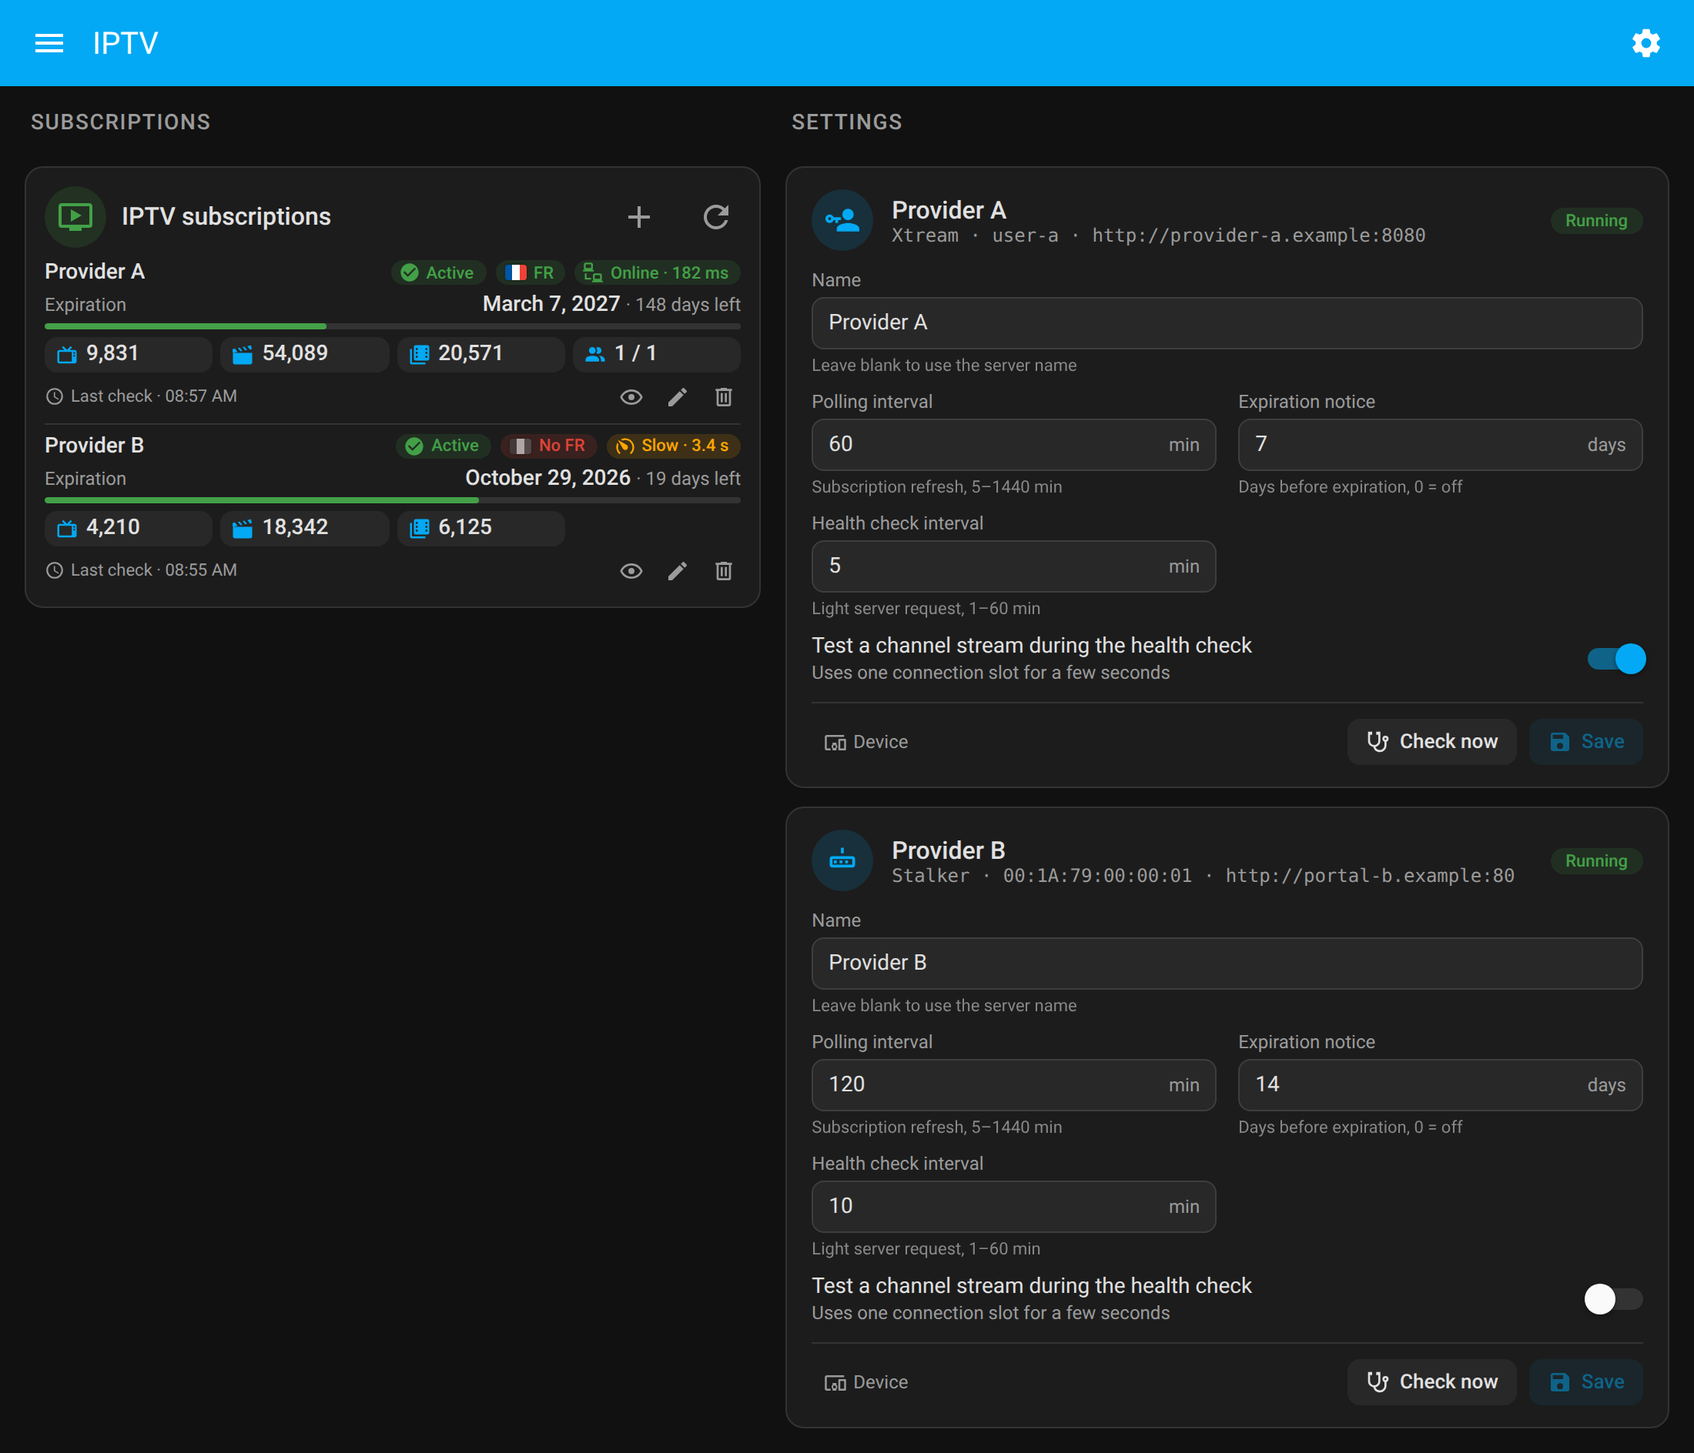
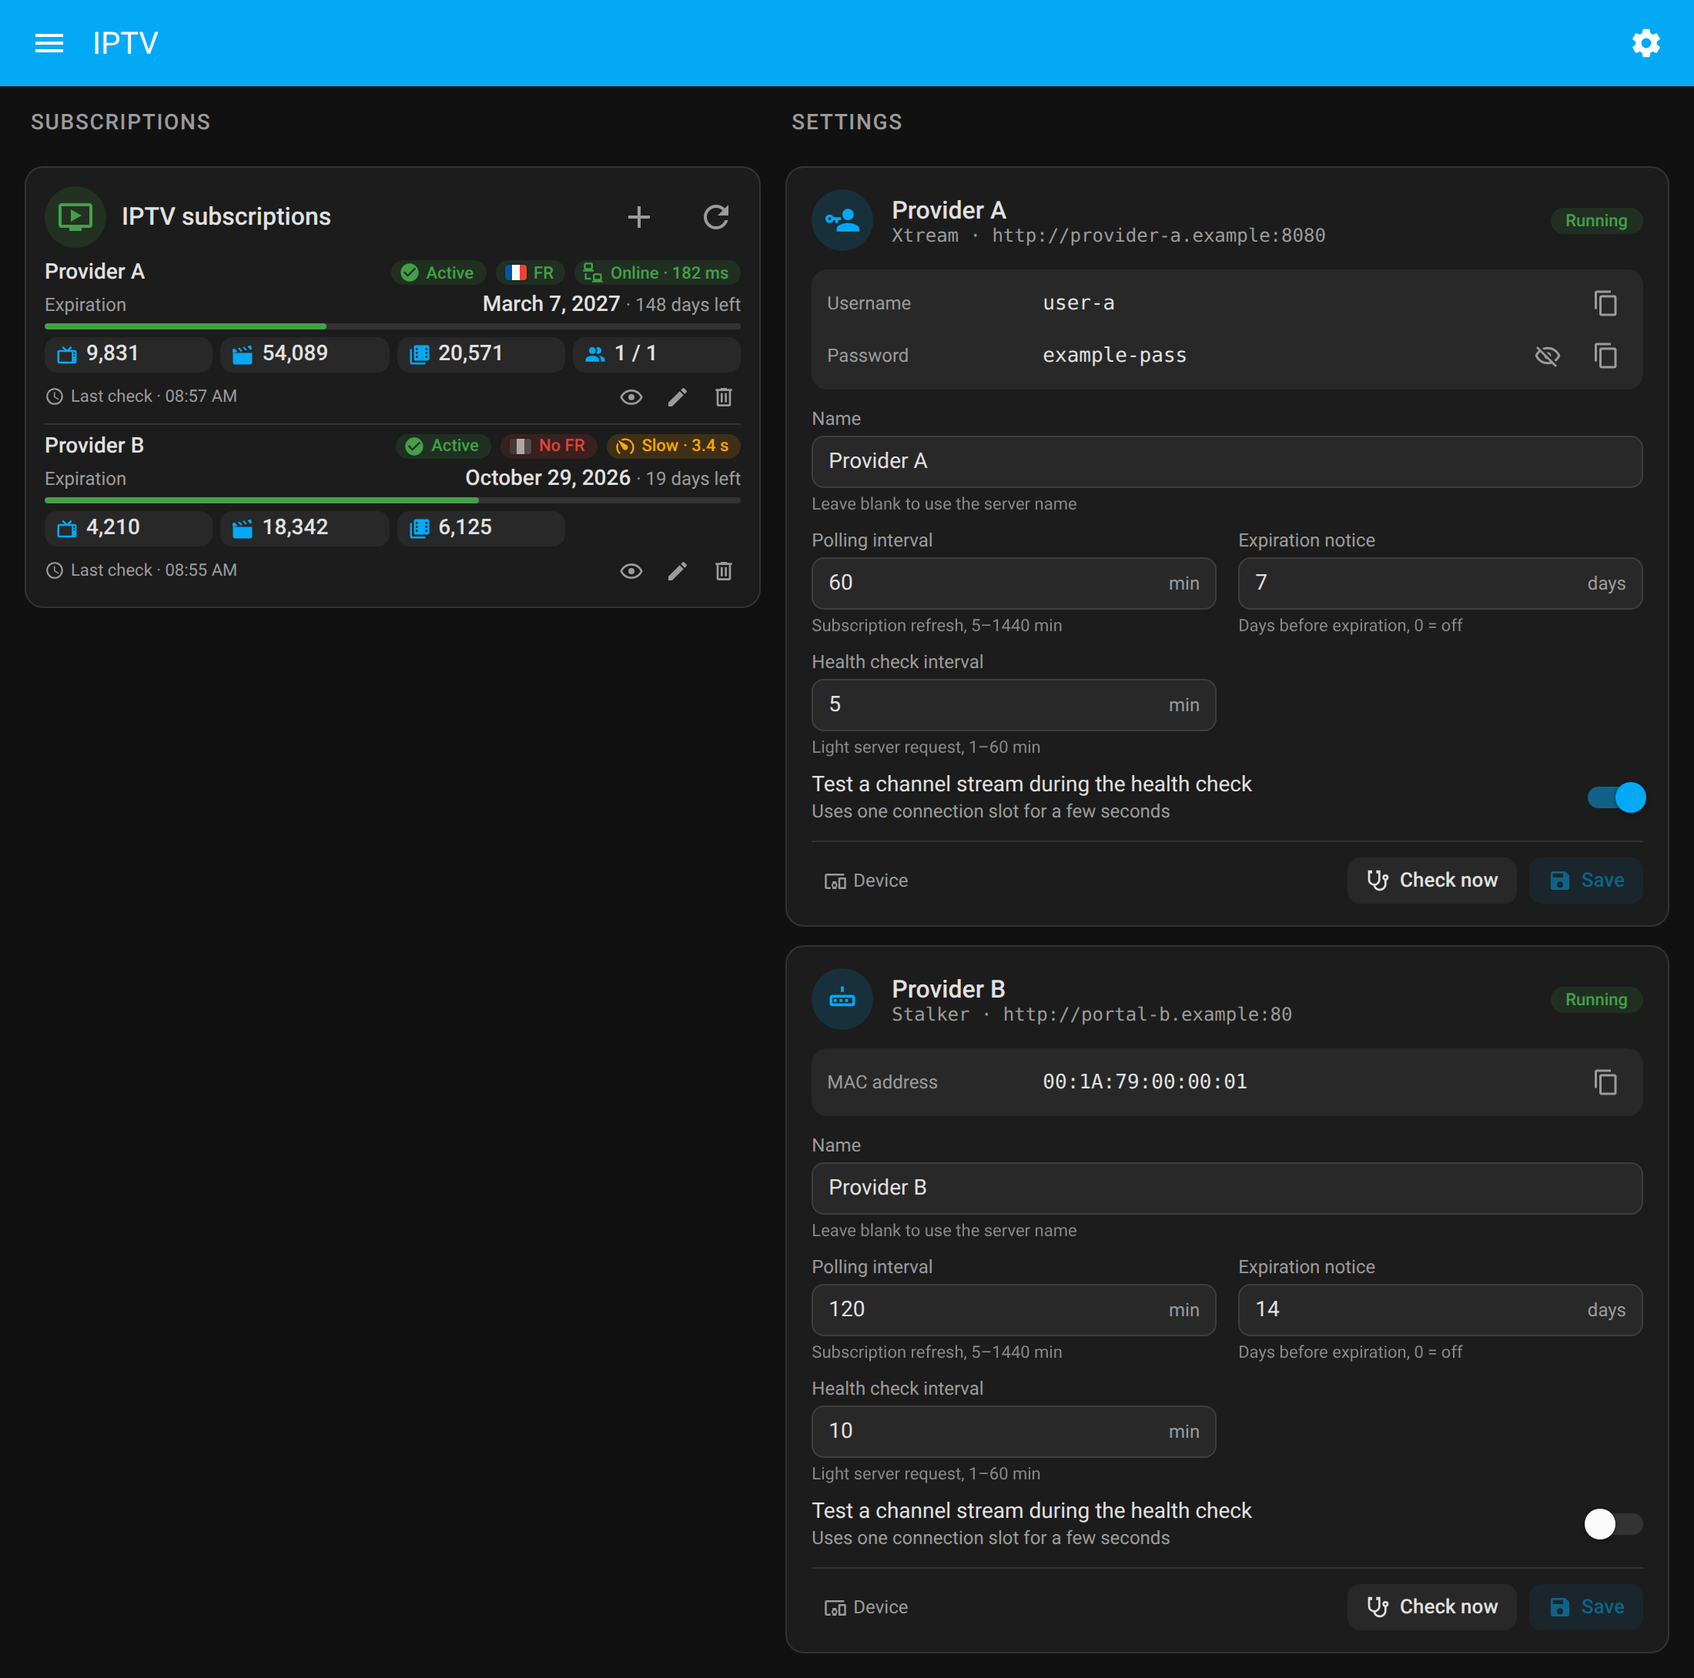
Panel: show and copy account credentials + release 3.22.0 (#52)
## Summary
- Sidebar panel: credentials block per account — username (or MAC
address) and, for Xtream accounts, the password masked (`••••••••`)
until the eye button is clicked; copy buttons for both.
- The password is fetched on demand through the existing admin-only
`iptv/get_credentials` command (never in `iptv/accounts`), kept in
memory only while shown, dropped when hidden, when the account
disappears and when the panel is closed.
- en/fr/de/es; README, CHANGELOG, AGENT.md and panel screenshots
updated. Release 3.22.0.

## Tests
- 113 Python tests, card + panel JS tests (i18n parity) pass; ruff,
Biome, jscpd (0 clones) clean.

---
_Generated by [Claude
Code](https://claude.ai/code/session_01F4sAmySzCCvUFrwNuGJ9Hn)_

---------

diff --git a/custom_components/iptv/frontend/iptv-panel.js b/custom_components/iptv/frontend/iptv-panel.js
@@ -9,7 +9,7 @@
  *
  * https://github.com/juju35/ha-iptv
  */
-var IPTV_PANEL_VERSION = '3.21.0';
+var IPTV_PANEL_VERSION = '3.22.0';
 
 var IptvPanelI18n = {
   en: {
@@ -37,6 +37,13 @@ var IptvPanelI18n = {
     checking: 'Checking…',
     checked_ok: 'Server answered',
     checked_ko: 'Server not reachable',
+    cred_username: 'Username',
+    cred_mac: 'MAC address',
+    cred_password: 'Password',
+    cred_show: 'Show the password',
+    cred_hide: 'Hide the password',
+    cred_copy: 'Copy',
+    cred_copied: 'Copied',
     open_device: 'Device',
     open_integration: 'Devices & services',
     err_range: 'Value out of range',
@@ -73,6 +80,13 @@ var IptvPanelI18n = {
     checking: 'Vérification…',
     checked_ok: 'Le serveur répond',
     checked_ko: 'Serveur injoignable',
+    cred_username: 'Nom d’utilisateur',
+    cred_mac: 'Adresse MAC',
+    cred_password: 'Mot de passe',
+    cred_show: 'Afficher le mot de passe',
+    cred_hide: 'Masquer le mot de passe',
+    cred_copy: 'Copier',
+    cred_copied: 'Copié',
     open_device: 'Appareil',
     open_integration: 'Appareils et services',
     err_range: 'Valeur hors limites',
@@ -109,6 +123,13 @@ var IptvPanelI18n = {
     checking: 'Wird geprüft…',
     checked_ok: 'Server antwortet',
     checked_ko: 'Server nicht erreichbar',
+    cred_username: 'Benutzername',
+    cred_mac: 'MAC-Adresse',
+    cred_password: 'Passwort',
+    cred_show: 'Passwort anzeigen',
+    cred_hide: 'Passwort ausblenden',
+    cred_copy: 'Kopieren',
+    cred_copied: 'Kopiert',
     open_device: 'Gerät',
     open_integration: 'Geräte & Dienste',
     err_range: 'Wert außerhalb des Bereichs',
@@ -145,6 +166,13 @@ var IptvPanelI18n = {
     checking: 'Comprobando…',
     checked_ok: 'El servidor responde',
     checked_ko: 'Servidor inaccesible',
+    cred_username: 'Usuario',
+    cred_mac: 'Dirección MAC',
+    cred_password: 'Contraseña',
+    cred_show: 'Mostrar la contraseña',
+    cred_hide: 'Ocultar la contraseña',
+    cred_copy: 'Copiar',
+    cred_copied: 'Copiado',
     open_device: 'Dispositivo',
     open_integration: 'Dispositivos y servicios',
     err_range: 'Valor fuera de rango',
@@ -236,6 +264,16 @@ class IptvPanel extends HTMLElement {
     .act:hover:not([disabled]) { background:color-mix(in srgb, var(--primary-color) 22%, transparent); }
     .act.quiet { color:var(--primary-text-color); background:var(--secondary-background-color, rgba(127,127,127,.12)); }
     .act[disabled] { opacity:.5; cursor:default; }
+    .creds { display:flex; flex-direction:column; gap:2px; padding:6px 10px; border-radius:10px;
+             background:var(--secondary-background-color, rgba(127,127,127,.08)); }
+    .cred { display:flex; align-items:center; gap:10px; min-height:32px; }
+    .cred > span { width:130px; flex:none; font-size:12px; color:var(--secondary-text-color); }
+    .cred code { flex:1; min-width:0; font-size:13px; overflow:hidden; text-overflow:ellipsis; white-space:nowrap; user-select:all; }
+    .cred code.masked { letter-spacing:.15em; color:var(--secondary-text-color); user-select:none; }
+    .ico { border:0; background:none; cursor:pointer; color:var(--secondary-text-color); padding:5px; border-radius:50%; display:flex; --mdc-icon-size:18px; }
+    .ico:hover:not([disabled]) { background:color-mix(in srgb, var(--primary-color) 12%, transparent); color:var(--primary-color); }
+    .ico.done { color:var(--tone-good); }
+    .ico[disabled] { opacity:.4; cursor:default; }
   `;
 
   constructor() {
@@ -245,6 +283,8 @@ class IptvPanel extends HTMLElement {
     this._drafts = {};
     this._status = {};
     this._busy = {};
+    // Passwords revealed on request, kept in memory only while shown
+    this._secrets = {};
   }
 
   set hass(hass) {
@@ -271,6 +311,7 @@ class IptvPanel extends HTMLElement {
   }
 
   disconnectedCallback() {
+    this._secrets = {};
     if (this._unsub) {
       this._unsub.then((off) => off()).catch(() => {});
       this._unsub = null;
@@ -320,8 +361,10 @@ class IptvPanel extends HTMLElement {
       this._accounts = this._accounts || [];
     }
     var ids = new Set(this._accounts.map((a) => a.entry_id));
-    Object.keys(this._drafts).forEach((id) => {
-      if (!ids.has(id)) delete this._drafts[id];
+    [this._drafts, this._secrets].forEach((store) => {
+      Object.keys(store).forEach((id) => {
+        if (!ids.has(id)) delete store[id];
+      });
     });
     this._renderAccounts();
   }
@@ -395,6 +438,68 @@ class IptvPanel extends HTMLElement {
       </label>`;
   }
 
+  // Login and password of an account; the password is only fetched (iptv/get_credentials) when shown or copied
+  _credsHtml(acc) {
+    var esc = iptvPanelEsc;
+    var stalker = acc.provider === 'stalker';
+    var copy = (field) =>
+      `<button class="ico" data-copy="${field}" title="${esc(this._t('cred_copy'))}"${field === 'password' && !acc.device_id ? ' disabled' : ''}><ha-icon icon="mdi:content-copy"></ha-icon></button>`;
+    var login = `
+      <div class="cred">
+        <span>${esc(this._t(stalker ? 'cred_mac' : 'cred_username'))}</span>
+        <code>${esc(acc.login)}</code>
+        ${copy('login')}
+      </div>`;
+    if (stalker) return `<div class="creds">${login}</div>`;
+    var secret = this._secrets[acc.entry_id];
+    var shown = secret != null;
+    return `
+      <div class="creds">
+        ${login}
+        <div class="cred">
+          <span>${esc(this._t('cred_password'))}</span>
+          <code class="${shown ? '' : 'masked'}">${shown ? esc(secret) : '••••••••'}</code>
+          <button class="ico" data-reveal title="${esc(this._t(shown ? 'cred_hide' : 'cred_show'))}"${acc.device_id ? '' : ' disabled'}><ha-icon icon="${shown ? 'mdi:eye-off-outline' : 'mdi:eye-outline'}"></ha-icon></button>
+          ${copy('password')}
+        </div>
+      </div>`;
+  }
+
+  async _password(acc) {
+    var res = await this._hass.callWS({ type: 'iptv/get_credentials', device_id: acc.device_id });
+    if (!res?.ok) throw new Error(this._t(`err_${res?.error || 'generic'}`));
+    return res.password || '';
+  }
+
+  async _toggleSecret(acc) {
+    if (this._secrets[acc.entry_id] != null) {
+      delete this._secrets[acc.entry_id];
+    } else {
+      try {
+        this._secrets[acc.entry_id] = await this._password(acc);
+      } catch (err) {
+        this._status[acc.entry_id] = { tone: 'bad', text: err.message };
+      }
+    }
+    this._renderAccounts();
+  }
+
+  async _copy(acc, field, button) {
+    try {
+      var text = field === 'login' ? acc.login : (this._secrets[acc.entry_id] ?? (await this._password(acc)));
+      await navigator.clipboard.writeText(text);
+      button.classList.add('done');
+      button.title = this._t('cred_copied');
+      setTimeout(() => {
+        button.classList.remove('done');
+        button.title = this._t('cred_copy');
+      }, 1500);
+    } catch (err) {
+      this._status[acc.entry_id] = { tone: 'bad', text: err?.message || this._t('err_generic') };
+      this._renderAccounts();
+    }
+  }
+
   _accountHtml(acc) {
     var d = this._draft(acc);
     var esc = iptvPanelEsc;
@@ -409,10 +514,11 @@ class IptvPanel extends HTMLElement {
           <div class="avatar"><ha-icon icon="${icon}"></ha-icon></div>
           <div class="who">
             <div class="n">${esc(acc.title)}</div>
-            <div class="s">${esc(acc.provider === 'stalker' ? 'Stalker' : 'Xtream')} · ${esc(acc.login)} · ${esc(acc.url)}</div>
+            <div class="s">${esc(acc.provider === 'stalker' ? 'Stalker' : 'Xtream')} · ${esc(acc.url)}</div>
           </div>
           <span class="pill ${iptvPanelTone(acc.state)}">${esc(state)}</span>
         </div>
+        ${this._credsHtml(acc)}
         <div class="grid">
           <label class="ctl wide">
             <span>${esc(this._t('f_name'))}</span>
@@ -482,6 +588,10 @@ class IptvPanel extends HTMLElement {
     el.querySelector('ha-switch').addEventListener('change', (ev) => {
       draft.stream_check = !!ev.target.checked;
       this._refreshBar(acc, el);
+    });
+    el.querySelector('[data-reveal]')?.addEventListener('click', () => this._toggleSecret(acc));
+    el.querySelectorAll('[data-copy]').forEach((button) => {
+      button.addEventListener('click', () => this._copy(acc, button.dataset.copy, button));
     });
     el.querySelector('[data-do="save"]').addEventListener('click', () => this._save(acc));
     el.querySelector('[data-do="check"]').addEventListener('click', () => this._check(acc));

diff --git a/custom_components/iptv/frontend/iptv-card.js b/custom_components/iptv/frontend/iptv-card.js
@@ -8,7 +8,7 @@
  *
  * https://github.com/juju35/ha-iptv
  */
-var IPTV_CARD_VERSION = '3.21.0';
+var IPTV_CARD_VERSION = '3.22.0';
 var IPTV_DOMAIN = 'iptv';
 
 // ── i18n ──────────────────────────────────────────────────────────────────────

diff --git a/scripts/screenshots.py b/scripts/screenshots.py
@@ -71,6 +71,8 @@ ICONS = {
     "content-save": "M15,9H5V5H15M12,19A3,3 0 0,1 9,16A3,3 0 0,1 12,13A3,3 0 0,1 15,16A3,3 0 0,1 12,19M17,3H5C3.89,3 3,3.9 3,5V19A2,2 0 0,0 5,21H19A2,2 0 0,0 21,19V7L17,3Z",
     "devices": "M3,6H21V4H3C1.9,4 1,4.9 1,6V18A2,2 0 0,0 3,20H7V18H3V6M13,12H9V13.78C8.39,14.33 8,15.11 8,16C8,16.89 8.39,17.67 9,18.22V20H13V18.22C13.61,17.67 14,16.88 14,16C14,15.12 13.61,14.33 13,13.78V12M11,17.5A1.5,1.5 0 0,1 9.5,16A1.5,1.5 0 0,1 11,14.5A1.5,1.5 0 0,1 12.5,16A1.5,1.5 0 0,1 11,17.5M22,8H16A1,1 0 0,0 15,9V19A1,1 0 0,0 16,20H22A1,1 0 0,0 23,19V9A1,1 0 0,0 22,8M21,18H17V10H21V18Z",
     "cog": "M12,15.5A3.5,3.5 0 0,1 8.5,12A3.5,3.5 0 0,1 12,8.5A3.5,3.5 0 0,1 15.5,12A3.5,3.5 0 0,1 12,15.5M19.43,12.97C19.47,12.65 19.5,12.33 19.5,12C19.5,11.67 19.47,11.34 19.43,11L21.54,9.37C21.73,9.22 21.78,8.95 21.66,8.73L19.66,5.27C19.54,5.05 19.27,4.96 19.05,5.05L16.56,6.05C16.04,5.66 15.5,5.32 14.87,5.07L14.5,2.42C14.46,2.18 14.25,2 14,2H10C9.75,2 9.54,2.18 9.5,2.42L9.13,5.07C8.5,5.32 7.96,5.66 7.44,6.05L4.95,5.05C4.73,4.96 4.46,5.05 4.34,5.27L2.34,8.73C2.21,8.95 2.27,9.22 2.46,9.37L4.57,11C4.53,11.34 4.5,11.67 4.5,12C4.5,12.33 4.53,12.65 4.57,12.97L2.46,14.63C2.27,14.78 2.21,15.05 2.34,15.27L4.34,18.73C4.46,18.95 4.73,19.03 4.95,18.95L7.44,17.94C7.96,18.34 8.5,18.68 9.13,18.93L9.5,21.58C9.54,21.82 9.75,22 10,22H14C14.25,22 14.46,21.82 14.5,21.58L14.87,18.93C15.5,18.67 16.04,18.34 16.56,17.94L19.05,18.95C19.27,19.03 19.54,18.95 19.66,18.73L21.66,15.27C21.78,15.05 21.73,14.78 21.54,14.63L19.43,12.97Z",
+    "content-copy": "M19,21H8V7H19M19,5H8A2,2 0 0,0 6,7V21A2,2 0 0,0 8,23H19A2,2 0 0,0 21,21V7A2,2 0 0,0 19,5M16,1H4A2,2 0 0,0 2,3V17H4V3H16V1Z",
+    "eye-off-outline": "M2,5.27L3.28,4L20,20.72L18.73,22L15.65,18.92C14.5,19.3 13.28,19.5 12,19.5C7,19.5 2.73,16.39 1,12C1.69,10.24 2.79,8.69 4.19,7.46L2,5.27M12,9A3,3 0 0,1 15,12C15,12.35 14.94,12.69 14.83,13L11,9.17C11.31,9.06 11.65,9 12,9M12,4.5C17,4.5 21.27,7.61 23,12C22.18,14.08 20.79,15.88 19,17.19L17.58,15.76C18.94,14.82 20.06,13.54 20.82,12C19.17,8.64 15.76,6.5 12,6.5C10.91,6.5 9.84,6.68 8.84,7L7.3,5.47C8.74,4.85 10.33,4.5 12,4.5M3.18,12C4.83,15.36 8.24,17.5 12,17.5C12.69,17.5 13.37,17.43 14,17.29L11.72,15C10.29,14.85 9.15,13.71 9,12.28L5.6,8.87C4.61,9.72 3.78,10.78 3.18,12Z",
     "menu": "M3,6H21V8H3V6M3,11H21V13H3V11M3,16H21V18H3V16Z",
     "account-multiple": "M16 17V19H2V17S2 13 9 13 16 17 16 17M12.5 7.5A3.5 3.5 0 1 0 9 11A3.5 3.5 0 0 0 12.5 7.5M15.94 13A5.32 5.32 0 0 1 18 17V19H22V17S22 13.37 15.94 13M15 4A3.39 3.39 0 0 0 13.07 4.59A5 5 0 0 1 13.07 10.41A3.39 3.39 0 0 0 15 11A3.5 3.5 0 0 0 15 4Z",
 }
@@ -314,9 +316,12 @@ def mount_panel(context, shot):
           el.narrow = false;
           el.hass = {states, entities, devices, user: {is_admin: true}, language: "en", locale: {language: "en"},
             themes: {darkMode: dark}, callService: () => Promise.resolve(),
-            callWS: (msg) => Promise.resolve(msg.type === "iptv/accounts" ? {accounts} : {ok: true}),
+            callWS: (msg) => Promise.resolve(msg.type === "iptv/accounts" ? {accounts}
+              : msg.type === "iptv/get_credentials" ? {ok: true, password: "example-pass"} : {ok: true}),
             connection: {subscribeMessage: () => Promise.resolve(() => {})}};
           document.getElementById("root").appendChild(el);
+          // Show the first account's password, as after a click on the eye
+          setTimeout(() => el.shadowRoot.querySelector("[data-reveal]")?.click(), 100);
         }""",
         {
             "states": STATES,

diff --git a/custom_components/iptv/const.py b/custom_components/iptv/const.py
@@ -1,7 +1,7 @@
 """Constants for the IPTV integration."""
 
 DOMAIN = "iptv"
-VERSION = "3.21.0"
+VERSION = "3.22.0"
 
 CONF_SCAN_INTERVAL = "scan_interval"
 DEFAULT_SCAN_INTERVAL = 60  # minutes

diff --git a/custom_components/iptv/AGENT.md b/custom_components/iptv/AGENT.md
@@ -42,7 +42,7 @@ custom_components/iptv/
 
 ## Sidebar panel
 - Registered in `async_setup` (`panel_custom`, `require_admin`) at `/iptv-config` — its own path, not `/iptv`, so the frontend's panel route never shadows the files served under `/iptv/`. Module served from `/iptv/iptv-panel.js?v=VERSION`; `IPTV_PANEL_VERSION` is bumped with the others.
-- The panel imports the card and embeds `iptv-card` for the account list and add / view / edit / remove (no duplicated code: jscpd is blocking), and adds a settings form per account through `iptv/accounts` (no password), `iptv/update_account` (title first: renamed in place, then options: one reload; blank title = `auto_title`; same limits as the options flow via the `MIN_* / MAX_*` constants) and `iptv/check_account` (refresh + `health.async_check_now`, or a reload when the entry is not loaded). It follows `config_entries/subscribe` to reload the list when an account changes; drafts survive re-renders, and typing only refreshes the buttons.
+- The panel imports the card and embeds `iptv-card` for the account list and add / view / edit / remove (no duplicated code: jscpd is blocking), and adds a settings form per account through `iptv/accounts` (no password), `iptv/update_account` (title first: renamed in place, then options: one reload; blank title = `auto_title`; same limits as the options flow via the `MIN_* / MAX_*` constants) and `iptv/check_account` (refresh + `health.async_check_now`, or a reload when the entry is not loaded). Credentials block per account: login from `iptv/accounts`; the Xtream password is fetched with `iptv/get_credentials` (device id) only on show / copy, kept in `_secrets` while shown, dropped on hide and on disconnect. It follows `config_entries/subscribe` to reload the list when an account changes; drafts survive re-renders, and typing only refreshes the buttons.
 
 ## Health check
 - A Stalker client runs one operation at a time (asyncio lock; the coordinator and the health check share its token). The health latency is measured by the client once it holds the lock (`user_info_ms`), a tick is skipped while the previous check still runs, and the stream probe is skipped when the slots are all in use or, with unknown occupancy (Stalker), while a refresh holds or waits for the client (`busy`).

diff --git a/README.md b/README.md
@@ -129,11 +129,12 @@ The notification names the account and its expiration date, is refreshed once a 
 The integration adds an **IPTV** entry to the sidebar, shown to administrators only (`/iptv-config`). It gathers on one page:
 
 - the subscriptions, with the bundled card: add, view, edit and remove accounts;
+- the credentials of each account: username (or MAC address) and password, masked until you click the eye, with a copy button;
 - one settings form per account: name (blank = the server name), refresh interval, notification before expiration, health check interval and stream test — the same options and limits as **Configure**;
 - **Check now**: refreshes the subscription and runs a health check right away (retries the setup of an account that failed to start);
 - links to the account's device and to **Devices & services**.
 
-Saving a new name renames the device and the expiration notification in place; changing an option reloads that account once. The panel never receives the passwords (viewing one still goes through the card's admin-only command). To hide the entry, long-press the sidebar title and hide **IPTV**, like any other panel.
+Saving a new name renames the device and the expiration notification in place; changing an option reloads that account once. The account list never carries the passwords: a password is fetched only when you show or copy it, through the admin-only `iptv/get_credentials` command, and forgotten when hidden or when you leave the page. To hide the entry, long-press the sidebar title and hide **IPTV**, like any other panel.
 
 ### Entities
 

diff --git a/CHANGELOG.md b/CHANGELOG.md
@@ -1,5 +1,10 @@
 # Changelog
 
+## 3.22.0
+
+### Changes
+- Sidebar panel: each account shows its username (or MAC address) and, for Xtream accounts, its password, masked until the eye button is clicked; both can be copied. The password is fetched on demand through the admin-only `iptv/get_credentials` command and kept in the page's memory only while shown (never in `iptv/accounts`).
+
 ## 3.21.0
 
 ### Changes
